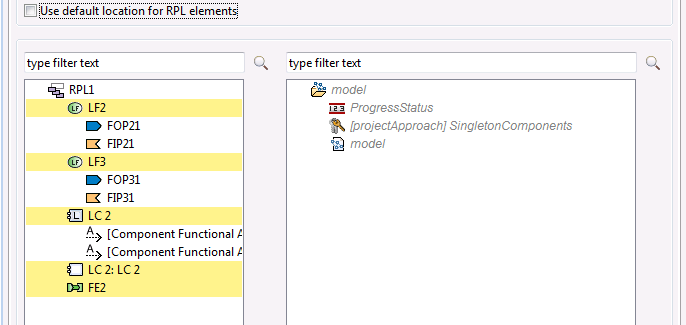
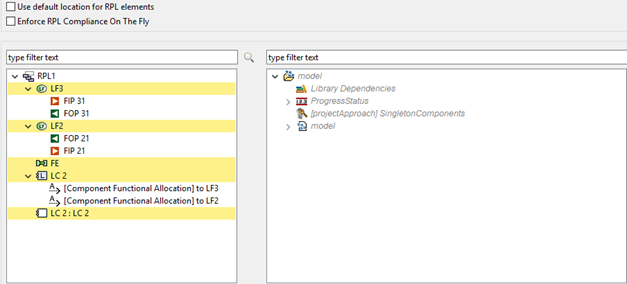
[1743] Show readOnly checkbox on Create and Update RPL Wizard

Changed region(s): [[0.0, 0.0, 1.0, 1.0], [0.9697, 0.0, 1.0, 0.0845], [0.9697, 0.1127, 1.0, 0.1408]]

diff --git a/doc/plugins/org.polarsys.capella.re.doc/html/08. Replicable Element (REC-RPL)/8.2. Basic Use Case.html b/doc/plugins/org.polarsys.capella.re.doc/html/08. Replicable Element (REC-RPL)/8.2. Basic Use Case.html
@@ -1,6 +1,221 @@
-<?xml version='1.0' encoding='utf-8' ?><!DOCTYPE html PUBLIC "-//W3C//DTD XHTML 1.0 Transitional//EN" "http://www.w3.org/TR/xhtml1/DTD/xhtml1-transitional.dtd"><html xmlns="http://www.w3.org/1999/xhtml"><head><meta http-equiv="Content-Type" content="text/html; charset=utf-8"/><title>8.2. Basic Use Case</title><link type="text/css" rel="stylesheet" href="PLUGINS_ROOT/org.polarsys.capella.doc/html/styles.css"/></head><body><h1 id="Basic_REC-RPL_Use_Case">Basic REC-RPL Use Case</h1><h2 id="Creation_of_a_REC">Creation of a REC</h2><p>From a diagram, select a consistent set of elements (here, a Component and the Functions it is performing).</p><p><img height="157" width="627" border="0" src="Images/8.2.%20Basic%20Use%20Case_html_61ca87e6.png"/></p><p>From the contextual menu, select &ldquo;Create a REC from Selection&rdquo;</p><p><img height="89" width="627" border="0" src="Images/8.2.%20Basic%20Use%20Case_html_4fd534ab.png"/></p><p>The REC creation dialog appears. A name shall be given to the REC. The Catalog field allows to select in which catalog this REC should be created (when working with Libraries, the Catalog is most likely located in a Library).</p><p><img height="692" width="590" border="0" src="Images/8.2.%20Basic%20Use%20Case_html_m11a06012.png"/></p><p>The scope (content) of the REC is displayed. This dialog helps modifying this scope (for example adding or removing elements). By default, the tool applies a set of business rules to include elements (for example, allocations between Component and Functions, children of an element, Etc.). Note here that despite Functional Exchange &ldquo;fe23&rdquo; is carrying Exchange Items, these Exchange Items are not included by default in the REC. In most of the cases, they shoud not be, as references are kept.</p><p>It is possible at this stage to define which elements will have to be renamed when the REC will be instantiated (label <b>&#91;+SUFFIX&#93;</b>). By default, the root elements (elements with no included container) are set as having to be renamed.</p><table border="1"><tr><td><p><img height="21" width="23" border="0" src="Images/8.2.%20Basic%20Use%20Case_html_m2b5f66f0.gif"/></p></td><td><p>Set/Unset the 				Element as having to be renamed at Instantiation</p></td></tr><tr><td><p><img height="20" width="23" border="0" src="Images/8.2.%20Basic%20Use%20Case_html_121da960.gif"/></p></td><td><p>Include 				Selected Element</p></td></tr><tr><td><p><img height="24" width="23" border="0" src="Images/8.2.%20Basic%20Use%20Case_html_78d20a04.gif"/></p></td><td><p>Remove 				Element</p></td></tr><tr><td><p><img height="22" width="23" border="0" src="Images/8.2.%20Basic%20Use%20Case_html_515e8b51.png"/></p></td><td><p>Generic 				Include Elements</p></td></tr><tr><td><p><img height="21" width="21" border="0" src="Images/8.2.%20Basic%20Use%20Case_html_m43c6043e.gif"/></p></td><td><p>Include 				Related Elements</p></td></tr><tr><td><p><img height="22" width="24" border="0" src="Images/8.2.%20Basic%20Use%20Case_html_m24ae884e.gif"/></p></td><td><p>Include 				Children Elements</p></td></tr><tr><td><p><img height="20" width="20" border="0" src="Images/8.2.%20Basic%20Use%20Case_html_589a1b2e.png"/></p></td><td><p>Include Required 				Dependencies of Selected Element</p></td></tr><tr><td><p><img height="24" width="22" border="0" src="Images/8.2.%20Basic%20Use%20Case_html_m594eb14d.gif"/></p></td><td><p>Include All 				Requirement Dependencies</p></td></tr></table><p><br/>
-<br/></p><p>The compliancy field allows defining how REC would be instantiated (is it possible to modify content of the replica? add external interfaces? add ports? add more functions?) <br/>
-See the RPL Validation part for further description of any kind of compliancy'<i> (This feature is not fully available yet)</i>'</p><p><br/>
-<br/></p><p>Notice the message at the bottom of the dialog, selected elements are linked to some elements which are not included in the REC (many exchange items, visible by clicking on the browse button on the right). When the REC will be instanciated, elements of the newly RPL will be linked to these exchange items too.</p><p><img height="51" width="627" border="0" src="Images/8.2.%20Basic%20Use%20Case_html_56e383b9.png"/></p><p><br/>
-<br/></p><p><br/>
-<br/></p><p>Close the dialog and check the result.</p><p>In the Project Explorer, the newly created REC appears. The Semantic Browser also show REC-related information</p><p><img height="108" width="208" border="0" src="Images/8.2.%20Basic%20Use%20Case_html_707f60f9.png"/></p><p><img height="180" width="626" border="0" src="Images/8.2.%20Basic%20Use%20Case_html_m76b1c545.png"/></p><p>And from the Function F2 included in the REC,</p><p><img height="181" width="627" border="0" src="Images/8.2.%20Basic%20Use%20Case_html_mf6bfd89.png"/></p><h2 id="Instantiation_of_a_REC">Instantiation of a REC</h2><p>From anywhere in the model, use the contextual command &ldquo;Instantiate a RPL from a REC&rdquo;</p><p><img height="85" width="627" border="0" src="Images/8.2.%20Basic%20Use%20Case_html_17699e08.png"/></p><p>The instantiation dialog opens.</p><p><img height="575" width="495" border="0" src="Images/8.2.%20Basic%20Use%20Case_html_3f98bee7.png"/></p><p>This dialog allows</p><ul><li>The selection of the REC to instantiate (click on &ldquo;Browse&rdquo;)</li><li>The definition of a target container (Catalog) for the RPL going to 	be created.</li><li>The definition of a suffix for each element of the REC that was 	marked as having to be renamed.</li><li>The compliancy field allows defining how RPL can be modified 	according to its REC (is it possible to modify content of the 	replica? add external interfaces? add ports? add more functions?) 	See the RPL Validation part for further description of any kind of 	compliancy'<i> (This feature is not fully available yet)</i>'</li></ul><p>All RPL elements corresponding to a REC element with the suffix tag &#91;+SUFFIX&#93; will have the RPL suffix.</p><p>By default, all RPL elements (new elements) will be located in standard containers in the model (for example, Root Functions, Root Components, etc.). It is possible to desactivate this option. In that case, a specific location has to be found manually for the root elements of the RPL. The elements for which a location still has to be found are marked in Orange. The definition of a new location is performed using drag and drop between the two trees.</p><p><img height="297" width="627" border="0" src="Images/8.2.%20Basic%20Use%20Case_html_m734c92a5.png"/></p><p>It is possible to create on-the-fly new elements in the right tree, using the contextual menu and rename them by pressing F2.</p><p><img height="180" width="500" border="0" src="Images/8.2_Basic_Use_Case.png"/></p><p>Close the dialog.</p><p>The new RPL can be seen in the Project Explorer. The type of the RPL is displayed in brackets.</p><p><img height="70" width="199" border="0" src="Images/8.2.%20Basic%20Use%20Case_html_m2d869e08.png"/></p><p>A good practice is to manage REC and RPLs in different folders</p><p><img height="107" width="215" border="0" src="Images/8.2.%20Basic%20Use%20Case_html_m62402328.png"/></p><p>On a diagram, insert the newly created elements (here, the Component and its Functions).</p><p><img height="120" width="203" border="0" src="Images/8.2.%20Basic%20Use%20Case_html_4627cc64.png"/></p><p>The Semantic Browser display RPL- and REC-related information:</p><ul><li>The RPL to which an element belongs (in Referencing Elements)</li><li>The original REC elements it is corresponding to (in Referenced 	Elements)</li></ul><p><img height="323" width="752" border="0" src="Images/8.2.%20Basic%20Use%20Case_html_3464e2e1.png"/></p><p>The Semantic Browser also shows the Functional Exchange &ldquo;fe2&rdquo;, part of the RPL, is also carrying the Exchange Items EI1 and EI2, even though these two Exchange Items were not included in the REC.</p><p><img height="200" width="850" border="0" src="Images/8.2.%20Basic%20Use%20Case_html_5877aab1.png"/></p><p>It is now possible to use this RPL in the model. For example, by connecting it also to other elements</p><p><img height="139" width="627" border="0" src="Images/8.2.%20Basic%20Use%20Case_html_2eecec59.png"/></p><h2 id="Copy-Paste_Layout">Copy-Paste Layout</h2><p>On a diagram showing the source elements of the REC, select all elements and copy the layout.</p><p><img height="199" width="627" border="0" src="Images/8.2.%20Basic%20Use%20Case_html_m35487b8e.png"/></p><p>On a diagram when the RPL is displayed, paste the layout</p><p><img height="211" width="627" border="0" src="Images/8.2.%20Basic%20Use%20Case_html_c008666.png"/></p><p>The layout is synchronized between the REC and the RPL</p><p><img height="160" width="627" border="0" src="Images/8.2.%20Basic%20Use%20Case_html_m3dbcc481.png"/></p></body></html>
+<?xml version='1.0' encoding='utf-8' ?><!DOCTYPE html PUBLIC "-//W3C//DTD XHTML 1.0 Transitional//EN" "http://www.w3.org/TR/xhtml1/DTD/xhtml1-transitional.dtd">
+<html xmlns="http://www.w3.org/1999/xhtml">
+	<head>
+		<meta http-equiv="Content-Type" content="text/html; charset=utf-8"/>
+		<title>8.2. Basic Use Case</title>
+		<link type="text/css" rel="stylesheet" href="PLUGINS_ROOT/org.polarsys.capella.doc/html/styles.css"/>
+	</head>
+	<body>
+		<h1 id="Basic_REC-RPL_Use_Case">Basic REC-RPL Use Case</h1>
+		<h2 id="Creation_of_a_REC">Creation of a REC</h2>
+		<p>From a diagram, select a consistent set of elements (here, a Component and the Functions it is performing).</p>
+		<p>
+			<img height="157" width="627" border="0" src="Images/8.2.%20Basic%20Use%20Case_html_61ca87e6.png"/>
+		</p>
+		<p>From the contextual menu, select &ldquo;Create a REC from Selection&rdquo;</p>
+		<p>
+			<img height="89" width="627" border="0" src="Images/8.2.%20Basic%20Use%20Case_html_4fd534ab.png"/>
+		</p>
+		<p>The REC creation dialog appears. A name shall be given to the REC. The Catalog field allows to select in which catalog this REC should be created (when working with Libraries, the Catalog is most likely located in a Library).</p>
+		<p>
+			<img height="692" width="590" border="0" src="Images/8.2.%20Basic%20Use%20Case_html_m11a06012.png"/>
+		</p>
+		<p>The scope (content) of the REC is displayed. This dialog helps modifying this scope (for example adding or removing elements). By default, the tool applies a set of business rules to include elements (for example, allocations between Component and Functions, children of an element, Etc.). Note here that despite Functional Exchange &ldquo;fe23&rdquo; is carrying Exchange Items, these Exchange Items are not included by default in the REC. In most of the cases, they shoud not be, as references are kept.</p>
+		<p>It is possible at this stage to define which elements will have to be renamed when the REC will be instantiated (label 
+			<b>&#91;+SUFFIX&#93;</b>). By default, the root elements (elements with no included container) are set as having to be renamed.
+		</p>
+		<table border="1">
+			<tr>
+				<td>
+					<p>
+						<img height="21" width="23" border="0" src="Images/8.2.%20Basic%20Use%20Case_html_m2b5f66f0.gif"/>
+					</p>
+				</td>
+				<td>
+					<p>Set/Unset the 				Element as having to be renamed at Instantiation</p>
+				</td>
+			</tr>
+			<tr>
+				<td>
+					<p>
+						<img height="20" width="23" border="0" src="Images/8.2.%20Basic%20Use%20Case_html_121da960.gif"/>
+					</p>
+				</td>
+				<td>
+					<p>Include 				Selected Element</p>
+				</td>
+			</tr>
+			<tr>
+				<td>
+					<p>
+						<img height="24" width="23" border="0" src="Images/8.2.%20Basic%20Use%20Case_html_78d20a04.gif"/>
+					</p>
+				</td>
+				<td>
+					<p>Remove 				Element</p>
+				</td>
+			</tr>
+			<tr>
+				<td>
+					<p>
+						<img height="22" width="23" border="0" src="Images/8.2.%20Basic%20Use%20Case_html_515e8b51.png"/>
+					</p>
+				</td>
+				<td>
+					<p>Generic 				Include Elements</p>
+				</td>
+			</tr>
+			<tr>
+				<td>
+					<p>
+						<img height="21" width="21" border="0" src="Images/8.2.%20Basic%20Use%20Case_html_m43c6043e.gif"/>
+					</p>
+				</td>
+				<td>
+					<p>Include 				Related Elements</p>
+				</td>
+			</tr>
+			<tr>
+				<td>
+					<p>
+						<img height="22" width="24" border="0" src="Images/8.2.%20Basic%20Use%20Case_html_m24ae884e.gif"/>
+					</p>
+				</td>
+				<td>
+					<p>Include 				Children Elements</p>
+				</td>
+			</tr>
+			<tr>
+				<td>
+					<p>
+						<img height="20" width="20" border="0" src="Images/8.2.%20Basic%20Use%20Case_html_589a1b2e.png"/>
+					</p>
+				</td>
+				<td>
+					<p>Include Required 				Dependencies of Selected Element</p>
+				</td>
+			</tr>
+			<tr>
+				<td>
+					<p>
+						<img height="24" width="22" border="0" src="Images/8.2.%20Basic%20Use%20Case_html_m594eb14d.gif"/>
+					</p>
+				</td>
+				<td>
+					<p>Include All 				Requirement Dependencies</p>
+				</td>
+			</tr>
+		</table>
+		<p>
+			<br/>
+
+			<br/>
+		</p>
+		<p>The compliancy field allows defining how REC would be instantiated (is it possible to modify content of the replica? add external interfaces? add ports? add more functions?) 
+			<br/>
+			See the RPL Validation part for further description of any kind of compliancy'
+			<i> (This feature is not fully available yet)</i>'
+		</p>
+		<p>
+			<br/>
+
+			<br/>
+		</p>
+		<p>Notice the message at the bottom of the dialog, selected elements are linked to some elements which are not included in the REC (many exchange items, visible by clicking on the browse button on the right). When the REC will be instanciated, elements of the newly RPL will be linked to these exchange items too.</p>
+		<p>
+			<img height="51" width="627" border="0" src="Images/8.2.%20Basic%20Use%20Case_html_56e383b9.png"/>
+		</p>
+		<p>
+			<br/>
+
+			<br/>
+		</p>
+		<p>
+			<br/>
+
+			<br/>
+		</p>
+		<p>Close the dialog and check the result.</p>
+		<p>In the Project Explorer, the newly created REC appears. The Semantic Browser also show REC-related information</p>
+		<p>
+			<img height="108" width="208" border="0" src="Images/8.2.%20Basic%20Use%20Case_html_707f60f9.png"/>
+		</p>
+		<p>
+			<img height="180" width="626" border="0" src="Images/8.2.%20Basic%20Use%20Case_html_m76b1c545.png"/>
+		</p>
+		<p>And from the Function F2 included in the REC,</p>
+		<p>
+			<img height="181" width="627" border="0" src="Images/8.2.%20Basic%20Use%20Case_html_mf6bfd89.png"/>
+		</p>
+		<h2 id="Instantiation_of_a_REC">Instantiation of a REC</h2>
+		<p>From anywhere in the model, use the contextual command &ldquo;Instantiate a RPL from a REC&rdquo;</p>
+		<p>
+			<img height="85" width="627" border="0" src="Images/8.2.%20Basic%20Use%20Case_html_17699e08.png"/>
+		</p>
+		<p>The instantiation dialog opens.</p>
+		<p>
+			<img height="502" width="627" border="0" src="Images/8.2.%20Basic%20Use%20Case_html_3f98bee7.png"/>
+		</p>
+		<p>This dialog allows</p>
+		<ul>
+			<li>The selection of the REC to instantiate (click on &ldquo;Browse&rdquo;)</li>
+			<li>The definition of a target container (Catalog) for the RPL going to 	be created.</li>
+			<li>The definition of a suffix for each element of the REC that was 	marked as having to be renamed.</li>
+			<li>The compliancy field allows defining how RPL can be modified 	according to its REC (is it possible to modify content of the 	replica? add external interfaces? add ports? add more functions?) 	See the RPL Validation part for further description of any kind of 	compliancy'
+				<i> (This feature is not fully available yet)</i>'
+			</li>
+			<li>To enable live compliancy validation for this RPL select &ldquo;Enforce RPL Compliance on the fly&rdquo;.</li>
+		</ul>
+		<p>All RPL elements corresponding to a REC element with the suffix tag &#91;+SUFFIX&#93; will have the RPL suffix.</p>
+		<p>By default, all RPL elements (new elements) will be located in standard containers in the model (for example, Root Functions, Root Components, etc.). It is possible to desactivate this option. In that case, a specific location has to be found manually for the root elements of the RPL. The elements for which a location still has to be found are marked in Orange. The definition of a new location is performed using drag and drop between the two trees.</p>
+		<p>
+			<img height="284" width="627" border="0" src="Images/8.2.%20Basic%20Use%20Case_html_m734c92a5.png"/>
+		</p>
+		<p>It is possible to create on-the-fly new elements in the right tree, using the contextual menu and rename them by pressing F2.</p>
+		<p>
+			<img height="180" width="500" border="0" src="Images/8.2_Basic_Use_Case.png"/>
+		</p>
+		<p>Close the dialog.</p>
+		<p>The new RPL can be seen in the Project Explorer. The type of the RPL is displayed in brackets. </p>
+		<p>
+			<img height="70" width="199" border="0" src="Images/8.2.%20Basic%20Use%20Case_html_m2d869e08.png"/>
+		</p>
+		<p>A good practice is to manage REC and RPLs in different folders</p>
+		<p>
+			<img height="107" width="215" border="0" src="Images/8.2.%20Basic%20Use%20Case_html_m62402328.png"/>
+		</p>
+		<p>On a diagram, insert the newly created elements (here, the Component and its Functions).</p>
+		<p>
+			<img height="120" width="203" border="0" src="Images/8.2.%20Basic%20Use%20Case_html_4627cc64.png"/>
+		</p>
+		<p>The Semantic Browser display RPL- and REC-related information:</p>
+		<ul>
+			<li>The RPL to which an element belongs (in Referencing Elements)</li>
+			<li>The original REC elements it is corresponding to (in Referenced 	Elements)</li>
+		</ul>
+		<p>
+			<img height="323" width="752" border="0" src="Images/8.2.%20Basic%20Use%20Case_html_3464e2e1.png"/>
+		</p>
+		<p>The Semantic Browser also shows the Functional Exchange &ldquo;fe2&rdquo;, part of the RPL, is also carrying the Exchange Items EI1 and EI2, even though these two Exchange Items were not included in the REC.</p>
+		<p>
+			<img height="200" width="850" border="0" src="Images/8.2.%20Basic%20Use%20Case_html_5877aab1.png"/>
+		</p>
+		<p>It is now possible to use this RPL in the model. For example, by connecting it also to other elements</p>
+		<p>
+			<img height="139" width="627" border="0" src="Images/8.2.%20Basic%20Use%20Case_html_2eecec59.png"/>
+		</p>
+		<h2 id="Copy-Paste_Layout">Copy-Paste Layout</h2>
+		<p>On a diagram showing the source elements of the REC, select all elements and copy the layout.</p>
+		<p>
+			<img height="199" width="627" border="0" src="Images/8.2.%20Basic%20Use%20Case_html_m35487b8e.png"/>
+		</p>
+		<p>On a diagram when the RPL is displayed, paste the layout</p>
+		<p>
+			<img height="211" width="627" border="0" src="Images/8.2.%20Basic%20Use%20Case_html_c008666.png"/>
+		</p>
+		<p>The layout is synchronized between the REC and the RPL</p>
+		<p>
+			<img height="160" width="627" border="0" src="Images/8.2.%20Basic%20Use%20Case_html_m3dbcc481.png"/>
+		</p>
+	</body>
+</html>

diff --git a/common/plugins/org.polarsys.capella.common.re/src/org/polarsys/capella/common/re/properties/ReadOnlyProperty.java b/common/plugins/org.polarsys.capella.common.re/src/org/polarsys/capella/common/re/properties/ReadOnlyProperty.java
@@ -1,0 +1,95 @@
+/*******************************************************************************
+ * Copyright (c) 2017 THALES GLOBAL SERVICES.
+ * All rights reserved. This program and the accompanying materials
+ * are made available under the terms of the Eclipse Public License v1.0
+ * which accompanies this distribution, and is available at
+ * http://www.eclipse.org/legal/epl-v10.html
+ *   
+ * Contributors:
+ *    Thales - initial API and implementation
+ *******************************************************************************/
+package org.polarsys.capella.common.re.properties;
+
+import org.eclipse.core.runtime.IStatus;
+import org.eclipse.core.runtime.Status;
+import org.polarsys.capella.common.flexibility.properties.property.AbstractProperty;
+import org.polarsys.capella.common.flexibility.properties.schema.ICompoundProperty;
+import org.polarsys.capella.common.flexibility.properties.schema.IEditableProperty;
+import org.polarsys.capella.common.flexibility.properties.schema.IModifiedProperty;
+import org.polarsys.capella.common.flexibility.properties.schema.IProperty;
+import org.polarsys.capella.common.flexibility.properties.schema.IPropertyContext;
+import org.polarsys.capella.common.re.CatalogElement;
+import org.polarsys.capella.common.re.constants.IReConstants;
+
+public class ReadOnlyProperty extends AbstractProperty implements ICompoundProperty, IEditableProperty, IModifiedProperty {
+
+  /**
+   * {@inheritDoc}
+   */
+  @Override
+  public String[] getRelatedProperties() {
+    return new String[] { };
+  }
+
+  /**
+   * {@inheritDoc}
+   */
+  @Override
+  public Object getValue(IPropertyContext context) {
+    CatalogElement element =
+        (CatalogElement) context.getCurrentValue(context.getProperties().getProperty(IReConstants.PROPERTY__REPLICABLE_ELEMENT__INITIAL_TARGET));
+    return element.isReadOnly();
+  }
+
+  /**
+   * {@inheritDoc}
+   */
+  @Override
+  public IStatus validate(Object newValue, IPropertyContext context) {
+    return Status.OK_STATUS;
+  }
+
+  /**
+   * {@inheritDoc}
+   */
+  @Override
+  public Object getType() {
+    return Boolean.class;
+  }
+
+  /**
+   * {@inheritDoc}
+   */
+  @Override
+  public Object toType(Object value, IPropertyContext context) {
+    return value;
+  }
+
+  /**
+   * {@inheritDoc}
+   */
+  @Override
+  public void setValue(IPropertyContext context) {
+    CatalogElement element =
+        (CatalogElement) context.getCurrentValue(context.getProperties().getProperty(IReConstants.PROPERTY__REPLICABLE_ELEMENT__INITIAL_TARGET));
+    Boolean current = (Boolean) context.getCurrentValue(this);
+    element.setReadOnly(current);
+
+  }
+
+  /**
+   * {@inheritDoc}
+   */
+  @Override
+  public void updatedValue(IProperty property, IPropertyContext context) {
+
+  }
+
+  /**
+   * {@inheritDoc}
+   */
+  @Override
+  public boolean isModified(IPropertyContext context) {
+    return true;
+  }
+}

diff --git a/common/plugins/org.polarsys.capella.common.re/src/org/polarsys/capella/common/re/constants/IReConstants.java b/common/plugins/org.polarsys.capella.common.re/src/org/polarsys/capella/common/re/constants/IReConstants.java
@@ -1,10 +1,10 @@
 /*******************************************************************************
- * Copyright (c) 2006, 2016 THALES GLOBAL SERVICES.
+ * Copyright (c) 2006, 2017 THALES GLOBAL SERVICES.
  * All rights reserved. This program and the accompanying materials
  * are made available under the terms of the Eclipse Public License v1.0
  * which accompanies this distribution, and is available at
  * http://www.eclipse.org/legal/epl-v10.html
- *  
+ *
  * Contributors:
  *    Thales - initial API and implementation
  *******************************************************************************/
@@ -68,6 +68,7 @@ public class IReConstants {
   public static final String LOCATION_HANDLER = "LOCATION_HANDLER";
   public static final String REPLICABLE_ELEMENT_HANDLER = "REPLICABLE_ELEMENT_HANDLER";
   public static final String PROPERTY__TARGET_NAME = "targetName";
+  public static final String PROPERTY__READONLY = "readOnly";
 
   // Virtual links are:
   // When we create a replica from a rec, we create for all elements of the
